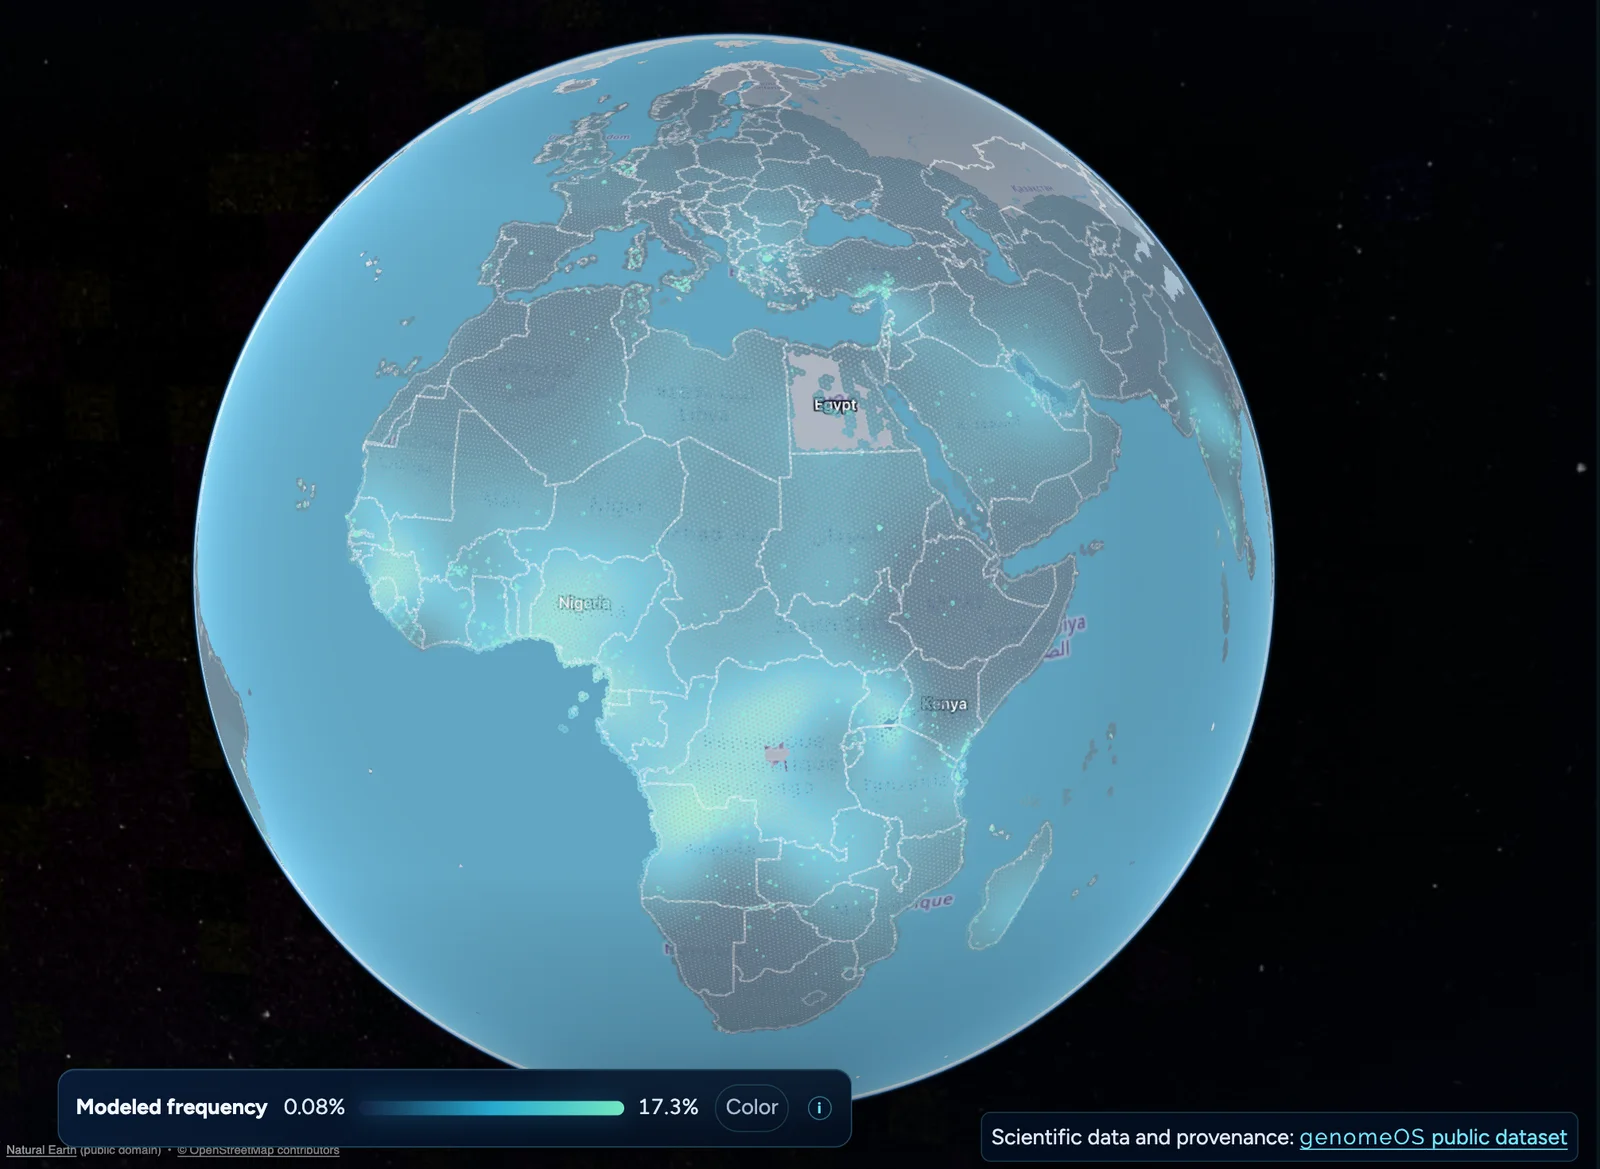
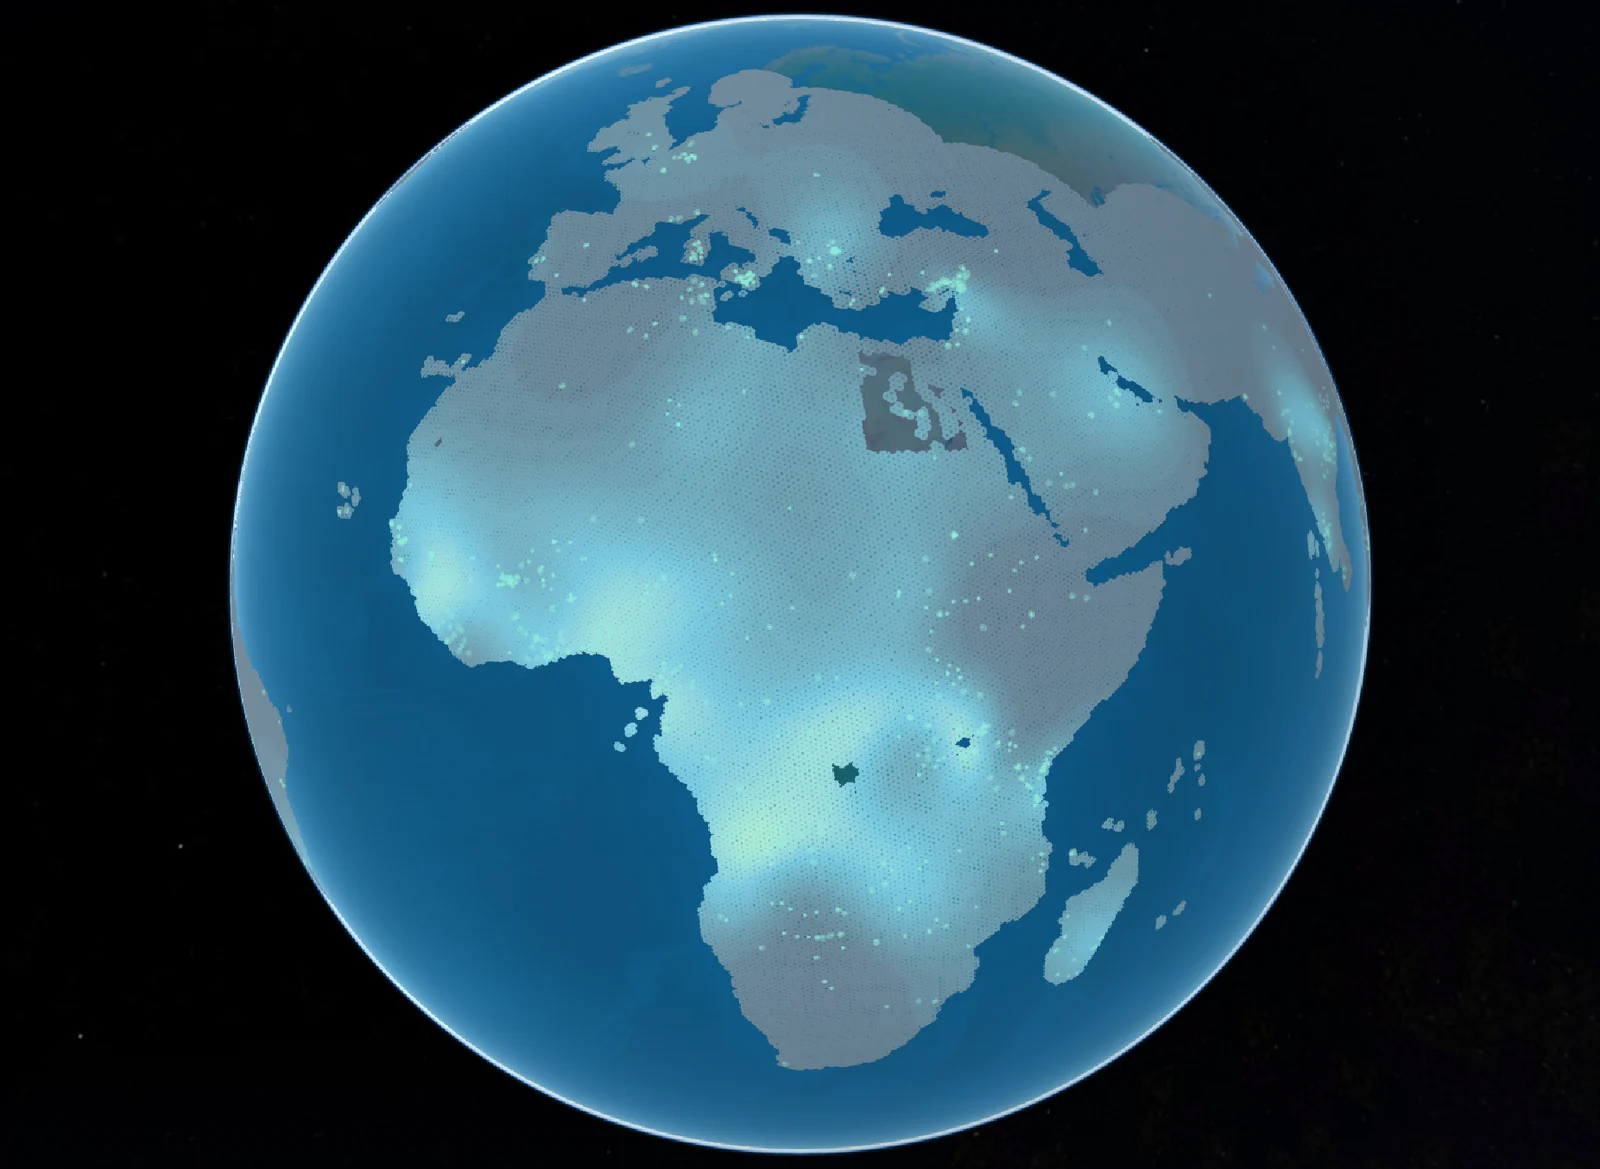
fix(projects): the overview's picture is the Atlas's globe alone, and it opens the HbS map
The still carried app chrome that looked clickable (the legend's Color and
info buttons, an underlined dataset link, tiny attribution) and label debris
at the limb. It is recaptured from the live Atlas with place labels and
country outlines off on the public-domain Natural Earth II basemap, cropped
to the globe; the picture links to the HbS map, its key is one HTML line
("The live Atlas: HbS frequency, low to high."), and the overview's pill now
opens the HbS map as Home's does.

Refs #454

diff --git a/website/tests/content-projects.test.ts b/website/tests/content-projects.test.ts
@@ -225,12 +225,14 @@ describe('projects page content', () => {
       'Project 1',
       'Where a genetic variant is common shapes who is offered screening, how a test result is read and where a study can recruit.',
       'The Atlas maps variants on an interactive globe. Pick one, inspect any place and see where evidence is thin.',
-      'The live Atlas, on its HbS map.',
+      'The live Atlas: HbS frequency, low to high.',
       'How we count',
     ])
       expect(overview).toContain(line);
+    // The pill opens the Atlas on the HbS map the picture shows, as Home's pill does (design
+    // critique of the integrated build, round 2).
     expect(overviewHtml()).toMatch(
-      /<a class="atlas-open" href="\/app\/">[\s\S]*?Open the <span class="brand-name">genomeOS<\/span> Atlas/,
+      /<a class="atlas-open" href="\/app\/\?entity=hbs-rs334&amp;palette=genome">[\s\S]*?Open the <span class="brand-name">genomeOS<\/span> Atlas/,
     );
     // The one visual is the product itself (design critique of the integrated build): a still of
     // the live Atlas on its HbS map, a WebP sized to its column, loaded lazily, described in
@@ -248,6 +250,12 @@ describe('projects page content', () => {
     expect(still).toMatch(
       /alt="The genomeOS Atlas showing the sickle-cell variant HbS[^"]+"/,
     );
+    // Nothing in it looks clickable but is not: the picture opens the map it shows, and its key is
+    // a line of HTML, not app chrome baked into the image (round 2 of that critique).
+    expect(visual).toMatch(
+      /<a class="atlas-ov__still-link" href="\/app\/\?entity=hbs-rs334&amp;palette=genome">\s*<picture\b/,
+    );
+    expect(visual).toMatch(/<span class="atlas-ov__ramp">/);
     expect(overviewHtml()).not.toContain('atlas-mark');
   });
 

diff --git a/website/tests/marketing-projects.spec.ts b/website/tests/marketing-projects.spec.ts
@@ -1090,7 +1090,7 @@ test('the Atlas chapter opens on an overview: the essentials in about 80 words, 
   ).toBeVisible();
   await expect(
     overview.getByRole('link', { name: 'Open the genomeOS Atlas' }),
-  ).toHaveAttribute('href', '/app/');
+  ).toHaveAttribute('href', '/app/?entity=hbs-rs334&palette=genome');
   await expect(overview.locator('data')).toHaveText(['4,392', '6.69M', '2']);
   // The one picture is the product itself, loaded and drawn (design critique of the integrated
   // build), not the index's mark again.
@@ -1106,6 +1106,12 @@ test('the Atlas chapter opens on an overview: the essentials in about 80 words, 
   await expect(still).toHaveAccessibleName(
     /^The genomeOS Atlas showing the sickle-cell variant HbS/,
   );
+  // The picture opens the map it shows (design critique of the integrated build, round 2).
+  await expect(
+    overview.getByRole('link', {
+      name: /^The genomeOS Atlas showing the sickle-cell variant HbS/,
+    }),
+  ).toHaveAttribute('href', '/app/?entity=hbs-rs334&palette=genome');
   await expect(overview.locator('.atlas-mark')).toHaveCount(0);
   // "How we count" stays folded: its definition is there for whoever asks.
   const method = overview.locator('details');

diff --git a/website/src/styles/pages/projects.css b/website/src/styles/pages/projects.css
@@ -290,12 +290,44 @@
   height: auto;
   border: 1px solid var(--color-line-strong);
   background: var(--color-void);
+  transition: border-color var(--dur-micro) var(--ease-ui);
+}
+
+/* The picture opens the map it shows: the rim lights on hover, the site's ion ring on focus. */
+.atlas-ov__still-link {
+  display: block;
+}
+
+.atlas-ov__still-link:hover .atlas-ov__still {
+  border-color: var(--color-ion);
+}
+
+.atlas-ov__still-link:focus-visible {
+  outline: 2px solid var(--color-ion);
+  outline-offset: 3px;
 }
 
 .atlas-ov__caption {
   margin: 0;
   color: var(--color-muted);
   font-size: var(--type-legend);
+}
+
+/* The map's key, in one line of the caption: the Atlas's own HbS ramp (palette "genome",
+   src/atlas/encoding-tokens.ts) from low to high, in a hairline so its dark end reads on the page. */
+.atlas-ov__key {
+  display: inline-flex;
+  align-items: center;
+  gap: 0.4rem;
+  white-space: nowrap;
+}
+
+.atlas-ov__ramp {
+  display: inline-block;
+  width: 4.5rem;
+  height: 0.55rem;
+  border: 1px solid var(--color-line-strong);
+  background: linear-gradient(90deg, #10213e, #27a9d0, #72e7c1);
 }
 
 .atlas-ov__facts {
